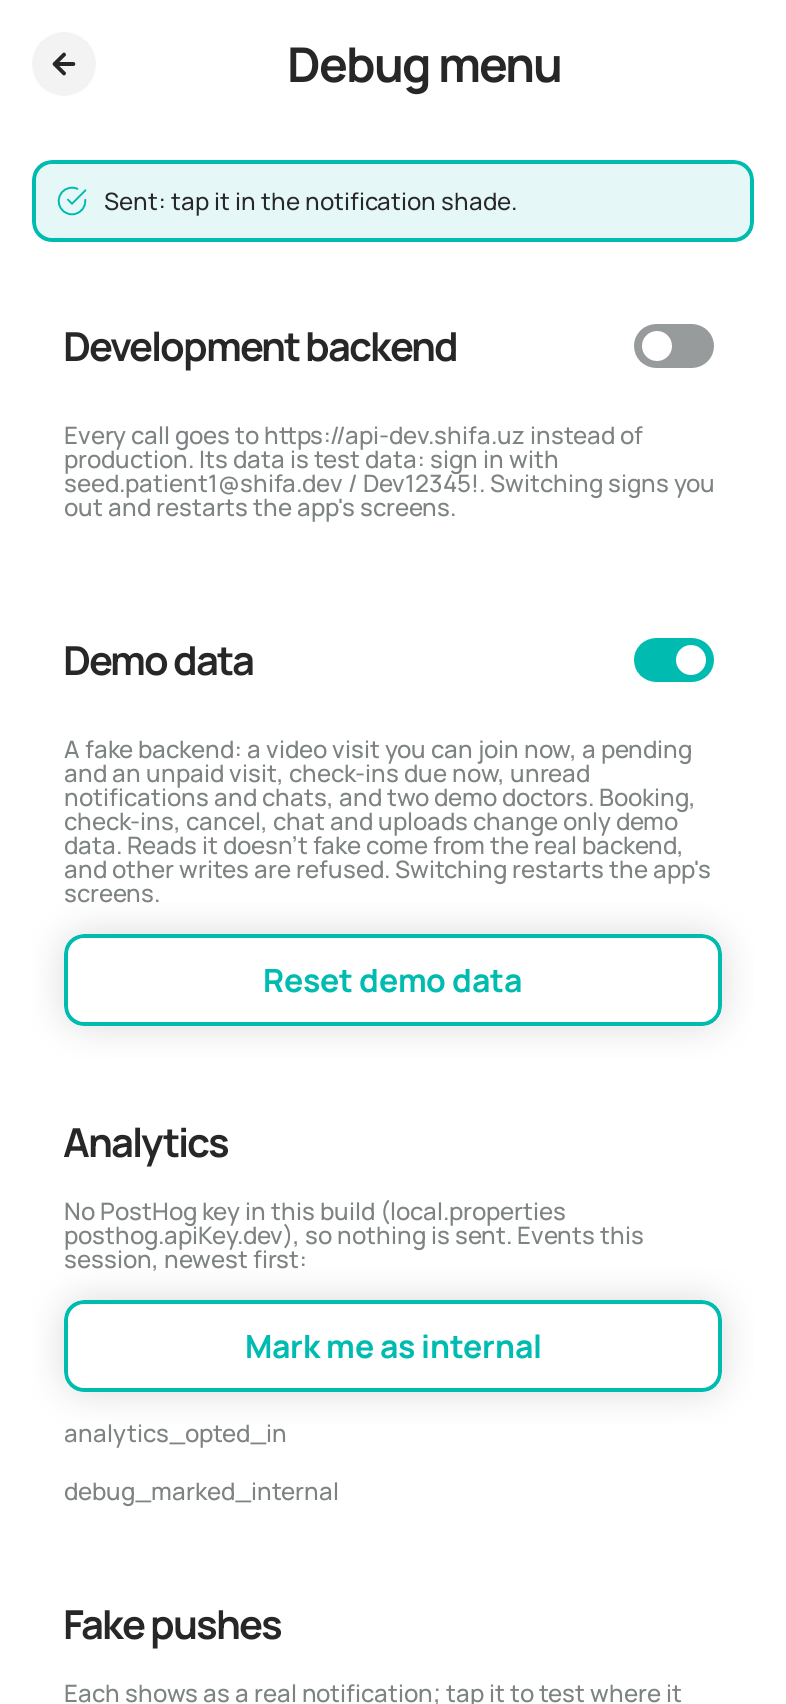
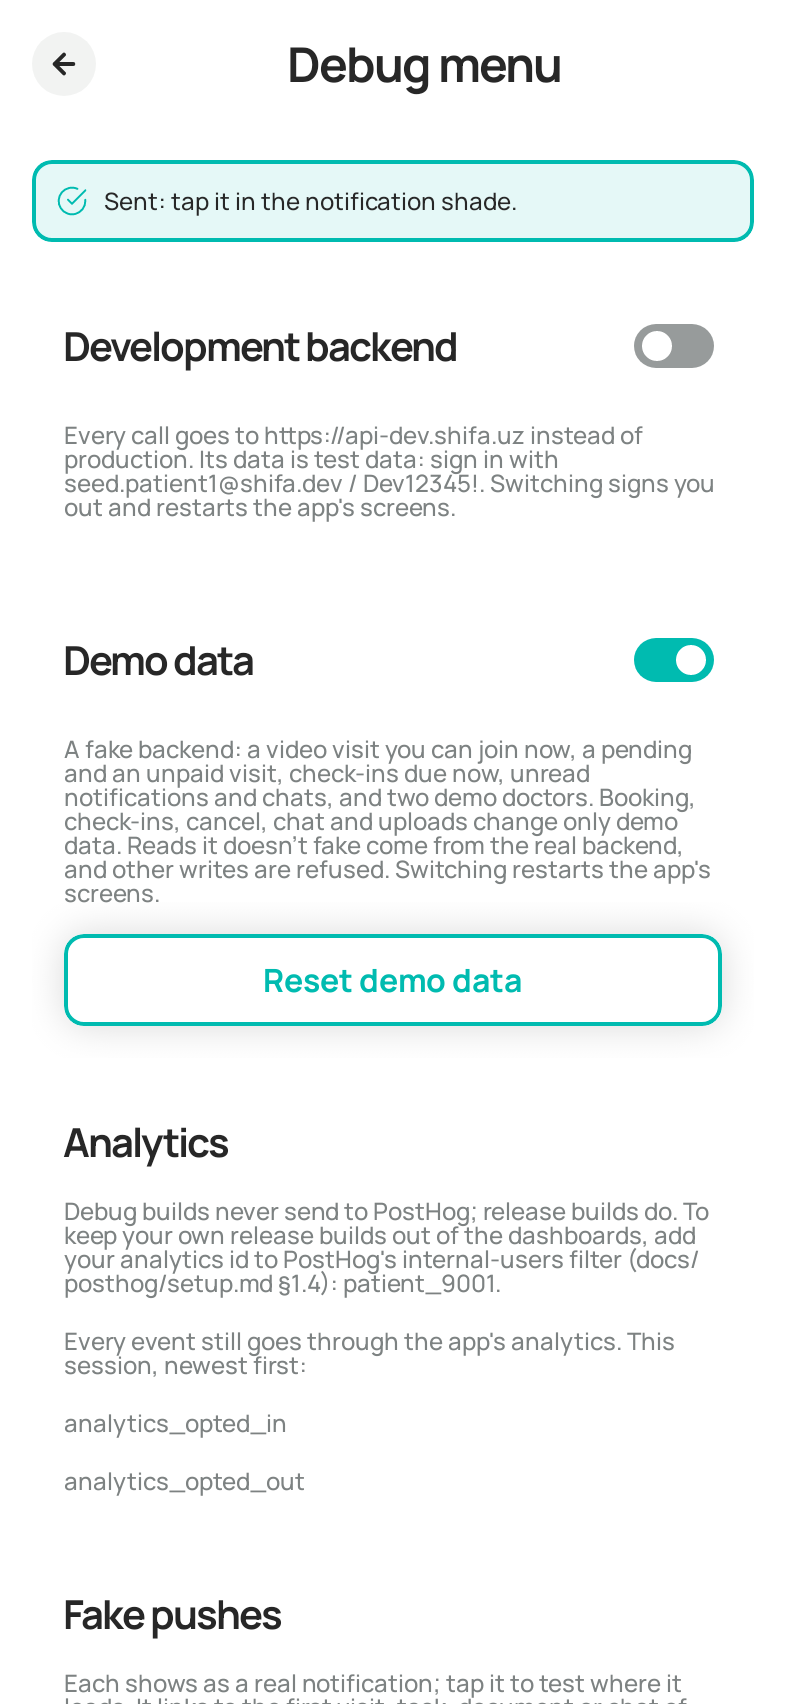
Stop tracking in debug builds, mark every event with the app for the shared PostHog project, and show the analytics id in the Debug menu

diff --git a/composeApp/src/commonMain/kotlin/shifa/uz/ui/debug/DebugViewModel.kt b/composeApp/src/commonMain/kotlin/shifa/uz/ui/debug/DebugViewModel.kt
@@ -9,8 +9,6 @@ import kotlinx.coroutines.flow.asStateFlow
 import kotlinx.coroutines.launch
 import kotlinx.datetime.Instant
 import shifa.uz.data.analytics.Analytics
-import shifa.uz.data.analytics.AnalyticsEvent
-import shifa.uz.data.analytics.AnalyticsTracker
 import shifa.uz.data.auth.AuthRepository
 import shifa.uz.data.bookings.BookingsRepository
 import shifa.uz.data.chat.ChatRepository
@@ -19,6 +17,7 @@ import shifa.uz.data.debug.BackendChoice
 import shifa.uz.data.debug.DemoBackend
 import shifa.uz.data.debug.DemoMode
 import shifa.uz.data.documents.DocumentsRepository
+import shifa.uz.data.profile.ProfileRepository
 import shifa.uz.data.tasks.TasksRepository
 import shifa.uz.utils.getCurrentInstant
 
@@ -28,6 +27,7 @@ class DebugViewModel(
     private val tasks: TasksRepository = TasksRepository(),
     private val documents: DocumentsRepository = DocumentsRepository(),
     private val chat: ChatRepository = ChatRepository(),
+    private val profile: ProfileRepository = ProfileRepository(),
     demo: StateFlow<Boolean> = DemoMode.enabled,
     private val setDemo: (Boolean) -> Unit = DemoMode::set,
     private val resetDemo: suspend () -> Unit = { DemoBackend.shared.reset() },
@@ -35,17 +35,11 @@ class DebugViewModel(
     private val setBackend: (Backend) -> Unit = BackendChoice::set,
     private val signOut: suspend () -> Unit = { AuthRepository().logout() },
     private val clock: () -> Instant = ::getCurrentInstant,
-    private val analytics: AnalyticsTracker = Analytics,
-    analyticsReady: Boolean = Analytics.platform != null,
     recentEvents: StateFlow<List<String>> = Analytics.recent,
 ) : ViewModel() {
     private val _state =
         MutableStateFlow(
-            DebugUiState(
-                demo = demo.value,
-                development = backend.value == Backend.Development,
-                analyticsReady = analyticsReady,
-            ),
+            DebugUiState(demo = demo.value, development = backend.value == Backend.Development),
         )
     val state: StateFlow<DebugUiState> = _state.asStateFlow()
 
@@ -61,6 +55,7 @@ class DebugViewModel(
             val openTasks = async { tasks.getMyTasks().getOrNull().orEmpty().filter { it.isOpen } }
             val docs = async { documents.getDocuments().getOrNull().orEmpty() }
             val chats = async { chat.conversations().getOrNull().orEmpty() }
+            val me = async { profile.getProfile().getOrNull()?.id?.trim()?.takeIf { it.isNotEmpty() } }
             val now = clock()
             val visit =
                 appointments.await().filter { it.isOpen && !it.isOver(now) }.minByOrNull { it.startAt }
@@ -71,6 +66,7 @@ class DebugViewModel(
                     taskId = openTasks.await().firstOrNull()?.id,
                     documentId = docs.await().firstOrNull()?.id,
                     chatId = chats.await().firstOrNull()?.id,
+                    analyticsId = me.await()?.let { "patient_$it" },
                 )
         }
     }
@@ -83,13 +79,6 @@ class DebugViewModel(
             signOut()
             setBackend(if (on) Backend.Development else Backend.Production)
         }
-    }
-
-    /** docs/posthog/development.md §5: the person property `internal = true`, which Prod's filters exclude. */
-    fun markInternal() {
-        analytics.track(AnalyticsEvent.MarkedInternal)
-        _state.value =
-            _state.value.copy(notice = "Marked as internal: Prod dashboards will leave you out.", noticeIsError = false)
     }
 
     fun resetDemoData() {

diff --git a/composeApp/src/androidUnitTest/kotlin/shifa/uz/ui/debug/DebugViewModelTest.kt b/composeApp/src/androidUnitTest/kotlin/shifa/uz/ui/debug/DebugViewModelTest.kt
@@ -18,15 +18,15 @@ import org.junit.Test
 import org.mockito.kotlin.doReturn
 import org.mockito.kotlin.mock
 import org.mockito.kotlin.wheneverBlocking
-import shifa.uz.data.analytics.AnalyticsEvent
-import shifa.uz.data.analytics.RecordingTracker
 import shifa.uz.data.bookings.BookingsRepository
 import shifa.uz.data.chat.ChatRepository
 import shifa.uz.data.debug.Backend
 import shifa.uz.data.documents.DocumentsRepository
 import shifa.uz.data.model.Appointment
 import shifa.uz.data.model.PatientDocument
+import shifa.uz.data.model.PatientProfile
 import shifa.uz.data.model.RemoteCareTask
+import shifa.uz.data.profile.ProfileRepository
 import shifa.uz.data.tasks.TasksRepository
 
 @OptIn(ExperimentalCoroutinesApi::class)
@@ -42,7 +42,7 @@ class DebugViewModelTest {
     private var backend: Backend? = null
     private var signOuts = 0
     private val signedOut = CompletableDeferred<Unit>()
-    private val tracker = RecordingTracker()
+    private val profile = mock<ProfileRepository>()
 
     private val classToTest by lazy {
         DebugViewModel(
@@ -50,6 +50,7 @@ class DebugViewModelTest {
             tasks,
             documents,
             chat,
+            profile,
             MutableStateFlow(true),
             setDemo = { demo = it },
             resetDemo = { resets++ },
@@ -60,8 +61,6 @@ class DebugViewModelTest {
                 signOuts++
             },
             clock = { now },
-            analytics = tracker,
-            analyticsReady = true,
             recentEvents = MutableStateFlow(listOf("analytics_opted_in")),
         )
     }
@@ -158,16 +157,13 @@ class DebugViewModelTest {
         }
 
     @Test
-    fun `mark me as internal sends the marker event and shows the analytics state`() =
+    fun `the analytics id and the session's events show`() =
         runTest {
+            wheneverBlocking { profile.getProfile() } doReturn Result.success(PatientProfile(id = " 42 "))
             classToTest
             advanceUntilIdle()
 
-            classToTest.markInternal()
-
-            assertThat(tracker.events).containsExactly(AnalyticsEvent.MarkedInternal)
-            assertThat(classToTest.state.value.analyticsReady).isTrue()
+            assertThat(classToTest.state.value.analyticsId).isEqualTo("patient_42")
             assertThat(classToTest.state.value.analyticsEvents).containsExactly("analytics_opted_in")
-            assertThat(classToTest.state.value.notice).startsWith("Marked as internal")
         }
 }

diff --git a/composeApp/src/commonMain/kotlin/shifa/uz/ui/debug/DebugScreen.kt b/composeApp/src/commonMain/kotlin/shifa/uz/ui/debug/DebugScreen.kt
@@ -49,7 +49,6 @@ fun DebugScreen(
         onDevelopmentChange = viewModel::onDevelopmentChange,
         onReset = viewModel::resetDemoData,
         onPush = { viewModel.onPushed(push(it.label, it.message, it.data)) },
-        onMarkInternal = viewModel::markInternal,
     )
 }
 
@@ -61,7 +60,6 @@ internal fun DebugContent(
     onDevelopmentChange: (Boolean) -> Unit = {},
     onReset: () -> Unit = {},
     onPush: (FakePush) -> Unit = {},
-    onMarkInternal: () -> Unit = {},
 ) {
     Column(Modifier.fillMaxSize().background(ShifaColors.Bg.Surface).statusBarsPadding()) {
         ShifaPageElement(ShifaPageElementType.Header) { ShifaSubHeader("Debug menu", onBack = onBack) }
@@ -102,14 +100,11 @@ internal fun DebugContent(
                     }
                     ShifaSection("Analytics", type = ShifaSectionType.CardOnColor) {
                         Note(
-                            if (state.analyticsReady) {
-                                "PostHog is on with this build's key (Dev project). Events this session, newest first:"
-                            } else {
-                                "No PostHog key in this build (local.properties posthog.apiKey.dev), so nothing is " +
-                                    "sent. Events this session, newest first:"
-                            },
+                            "Debug builds never send to PostHog; release builds do. To keep your own release builds " +
+                                "out of the dashboards, add your analytics id to PostHog's internal-users filter " +
+                                "(docs/posthog/setup.md §1.4): ${state.analyticsId ?: "sign in to see it"}.",
                         )
-                        ShifaSecondaryButton("Mark me as internal", onMarkInternal, Modifier.fillMaxWidth())
+                        Note("Every event still goes through the app's analytics. This session, newest first:")
                         if (state.analyticsEvents.isEmpty()) Note("None yet.")
                         state.analyticsEvents.forEach { Note(it) }
                     }

diff --git a/composeApp/src/androidUnitTest/kotlin/shifa/uz/data/analytics/AnalyticsTest.kt b/composeApp/src/androidUnitTest/kotlin/shifa/uz/data/analytics/AnalyticsTest.kt
@@ -33,9 +33,9 @@ class AnalyticsTest {
 
     @Test
     fun `an event goes to the sink with its properties`() {
-        Analytics.track(AnalyticsEvent.MarkedInternal)
+        Analytics.track(AnalyticsEvent.AnalyticsOptedIn)
 
-        assertThat(sink.calls).containsExactly("capture debug_marked_internal {} {internal=true} {}")
+        assertThat(sink.calls).containsExactly("capture analytics_opted_in {} {} {}")
     }
 
     @Test
@@ -43,8 +43,8 @@ class AnalyticsTest {
         Analytics.identify(patient, language = "ru")
 
         assertThat(sink.calls).containsExactly(
-            "identify patient_42 {language=ru, subscription_tier=PRO, shifa_ai_enabled=false, has_photo=true, " +
-                "has_email=true, has_phone=false} {first_platform=android}",
+            "identify patient_42 {app=patient, language=ru, subscription_tier=PRO, shifa_ai_enabled=false, " +
+                "has_photo=true, has_email=true, has_phone=false} {first_platform=android}",
         )
     }
 
@@ -58,7 +58,7 @@ class AnalyticsTest {
     @Test
     fun `opted out sends nothing, opts the SDK out, but still resets and registers`() {
         Analytics.setOptedOut(true)
-        Analytics.track(AnalyticsEvent.MarkedInternal)
+        Analytics.track(AnalyticsEvent.AnalyticsOptedIn)
         Analytics.identify(patient, language = "en")
         Analytics.register("app_language", "en")
         Analytics.reset()
@@ -104,14 +104,12 @@ class AnalyticsTest {
     @Test
     fun `reset puts the super properties back, since the SDK's reset drops them`() {
         Analytics.register("app_language", "ru")
-        Analytics.register("backend", "development")
+        Analytics.register("other", "value")
         sink.calls.clear()
 
         Analytics.reset()
 
-        assertThat(sink.calls)
-            .containsExactly("reset", "register app_language=ru", "register backend=development")
-            .inOrder()
+        assertThat(sink.calls).containsExactly("reset", "register app_language=ru", "register other=value").inOrder()
     }
 
     @Test

diff --git a/composeApp/src/commonMain/kotlin/shifa/uz/App.kt b/composeApp/src/commonMain/kotlin/shifa/uz/App.kt
@@ -15,6 +15,7 @@ import kotlinx.coroutines.launch
 import org.jetbrains.compose.ui.tooling.preview.Preview
 import shifa.composeapp.generated.resources.Res
 import shifa.composeapp.generated.resources.accountDeletedSuccess
+import shifa.uz.data.analytics.ANALYTICS_APP
 import shifa.uz.data.analytics.Analytics
 import shifa.uz.data.auth.AuthRepository
 import shifa.uz.data.debug.BackendChoice
@@ -28,7 +29,6 @@ import shifa.uz.ui.register.RegisterScreen
 import shifa.uz.ui.splash.SplashScreen
 import shifa.uz.ui.theme.ShifaTheme
 import shifa.uz.utils.ProvideAppLocale
-import shifa.uz.utils.isDebugBuild
 
 private enum class Screen { Splash, Login, Register, ForgotPassword, Home }
 
@@ -37,13 +37,13 @@ private enum class Screen { Splash, Login, Register, ForgotPassword, Home }
 fun App() {
     val language by languageStorage.language.collectAsState()
     // docs/posthog/events.md §1.3: the super properties, and demo data keeps analytics off (README D8).
+    LaunchedEffect(Unit) { Analytics.register("app", ANALYTICS_APP) }
     LaunchedEffect(language) { Analytics.register("app_language", language.code) }
     ProvideAppLocale(language.code) {
         // Debug menu → Demo data or Development backend swaps the backend; everything restarts from the splash on it.
         val demo by DemoMode.enabled.collectAsState()
         val backend by BackendChoice.current.collectAsState()
         LaunchedEffect(demo) { Analytics.setDemo(demo) }
-        LaunchedEffect(backend) { if (isDebugBuild) Analytics.register("backend", backend.name.lowercase()) }
         ShifaTheme {
             key(demo, backend) {
                 // Fresh ViewModels too: Login's repositories hold the client of the backend they were created on.

diff --git a/iosApp/iosApp/AppDelegate.swift b/iosApp/iosApp/AppDelegate.swift
@@ -23,8 +23,12 @@ class AppDelegate: NSObject, UIApplicationDelegate, UNUserNotificationCenterDele
         return true
     }
 
-    /// docs/posthog/setup.md §5. No key (Secrets.xcconfig missing) means analytics stays off.
+    /// docs/posthog/setup.md §5. Release builds only (README D4: debug builds never track), and no key
+    /// (Secrets.xcconfig missing) means analytics stays off.
     private func setUpAnalytics() {
+        #if DEBUG
+        return
+        #else
         guard let key = Bundle.main.object(forInfoDictionaryKey: "PostHogApiKey") as? String, !key.isEmpty else { return }
         let config = PostHogConfig(projectToken: key, host: "https://eu.i.posthog.com")
         config.captureApplicationLifecycleEvents = true
@@ -39,11 +43,9 @@ class AppDelegate: NSObject, UIApplicationDelegate, UNUserNotificationCenterDele
         let off = AnalyticsBridgeKt.analyticsStartsOptedOut() // privacy.md §4, README D8
         config.preloadFeatureFlags = !off // README D10; not while off, or setup would still ask PostHog for flags
         config.optOut = off
-        #if DEBUG
-        config.debug = true
-        #endif
         PostHogSDK.shared.setup(config)
         AnalyticsBridgeKt.registerAnalytics(sink: PostHogAnalytics())
+        #endif
     }
 
     func application(_ application: UIApplication, didRegisterForRemoteNotificationsWithDeviceToken deviceToken: Data) {

diff --git a/composeApp/src/androidMain/kotlin/shifa/uz/data/analytics/PostHogSink.kt b/composeApp/src/androidMain/kotlin/shifa/uz/data/analytics/PostHogSink.kt
@@ -11,10 +11,11 @@ import shifa.uz.BuildConfig
 import shifa.uz.data.debug.DemoMode
 
 /**
- * docs/posthog/setup.md §5. No key (a fresh clone, or CI without the secret) means analytics stays off: nothing is
- * set up and [Analytics.platform] stays null.
+ * docs/posthog/setup.md §5. Release builds only (README D4: debug builds never track), and no key (CI without the
+ * secret) means analytics stays off: nothing is set up and [Analytics.platform] stays null.
  */
 fun setUpAnalytics(app: Application) {
+    if (BuildConfig.DEBUG) return
     val key = BuildConfig.POSTHOG_API_KEY
     if (key.isBlank()) return
     val optedOut = AnalyticsSettings().optedOut
@@ -35,7 +36,6 @@ fun setUpAnalytics(app: Application) {
             // identity must be dropped even while opted out.)
             preloadFeatureFlags = !(optedOut || demo)
             this.optOut = optedOut || demo // privacy.md §4, README D8
-            debug = BuildConfig.DEBUG
         }
     PostHogAndroid.setup(app, config)
     Analytics.platform = PostHogSink()

diff --git a/composeApp/src/commonMain/kotlin/shifa/uz/data/analytics/Analytics.kt b/composeApp/src/commonMain/kotlin/shifa/uz/data/analytics/Analytics.kt
@@ -11,6 +11,9 @@ import shifa.uz.utils.isDebugBuild
 /** PostHog Cloud EU (docs/posthog/README.md D1). Not a secret; the project key is. */
 const val POSTHOG_HOST = "https://eu.i.posthog.com"
 
+/** On every event and person: tells this app's data from the doctor app's if they ever share a project (setup.md §1.7). */
+const val ANALYTICS_APP = "patient"
+
 /** What the platform SDK does. Android: PostHog's SDK (`PostHogSink`); iOS: Swift's `PostHogAnalytics`. */
 interface AnalyticsSink {
     fun capture(
@@ -93,6 +96,7 @@ object Analytics : AnalyticsTracker {
         sink?.identify(
             "patient_$id",
             listOf(
+                "app" to ANALYTICS_APP,
                 "language" to language,
                 "subscription_tier" to profile.subscriptionTier,
                 "shifa_ai_enabled" to profile.canUseShifaAi,

diff --git a/composeApp/src/commonMain/kotlin/shifa/uz/ui/debug/DebugUiState.kt b/composeApp/src/commonMain/kotlin/shifa/uz/ui/debug/DebugUiState.kt
@@ -30,8 +30,8 @@ data class DebugUiState(
     val chatId: String? = null,
     val notice: String? = null,
     val noticeIsError: Boolean = false,
-    val analyticsReady: Boolean = false, // a PostHog key is built in
     val analyticsEvents: List<String> = emptyList(), // newest first (docs/posthog/development.md §5)
+    val analyticsId: String? = null, // `patient_<id>`: what to add to PostHog's internal-users filter (setup.md §1.4)
 ) {
     val pushes get() =
         listOf(

diff --git a/composeApp/src/androidMain/kotlin/shifa/uz/ui/debug/DebugPreviews.kt b/composeApp/src/androidMain/kotlin/shifa/uz/ui/debug/DebugPreviews.kt
@@ -15,7 +15,8 @@ internal fun DebugPreview() =
                 taskId = "9401",
                 documentId = "9701",
                 notice = "Sent: tap it in the notification shade.",
-                analyticsEvents = listOf("analytics_opted_in", "debug_marked_internal"),
+                analyticsEvents = listOf("analytics_opted_in", "analytics_opted_out"),
+                analyticsId = "patient_9001",
             ),
         )
     }

diff --git a/composeApp/src/commonMain/kotlin/shifa/uz/data/analytics/AnalyticsEvent.kt b/composeApp/src/commonMain/kotlin/shifa/uz/data/analytics/AnalyticsEvent.kt
@@ -22,7 +22,4 @@ sealed class AnalyticsEvent(
     data object AnalyticsOptedOut : AnalyticsEvent("analytics_opted_out")
 
     data object AnalyticsOptedIn : AnalyticsEvent("analytics_opted_in")
-
-    /** Debug menu: marks the team's account, so Prod's "internal users" filter excludes it (development.md §5). */
-    data object MarkedInternal : AnalyticsEvent("debug_marked_internal", userProperties = mapOf("internal" to true))
 }

diff --git a/composeApp/src/androidUnitTest/kotlin/shifa/uz/data/analytics/AnalyticsEventTest.kt b/composeApp/src/androidUnitTest/kotlin/shifa/uz/data/analytics/AnalyticsEventTest.kt
@@ -10,7 +10,6 @@ class AnalyticsEventTest {
         listOf(
             AnalyticsEvent.AnalyticsOptedOut,
             AnalyticsEvent.AnalyticsOptedIn,
-            AnalyticsEvent.MarkedInternal,
         )
 
     // privacy.md §3: identity, free text, exact amounts and record ids never travel.
